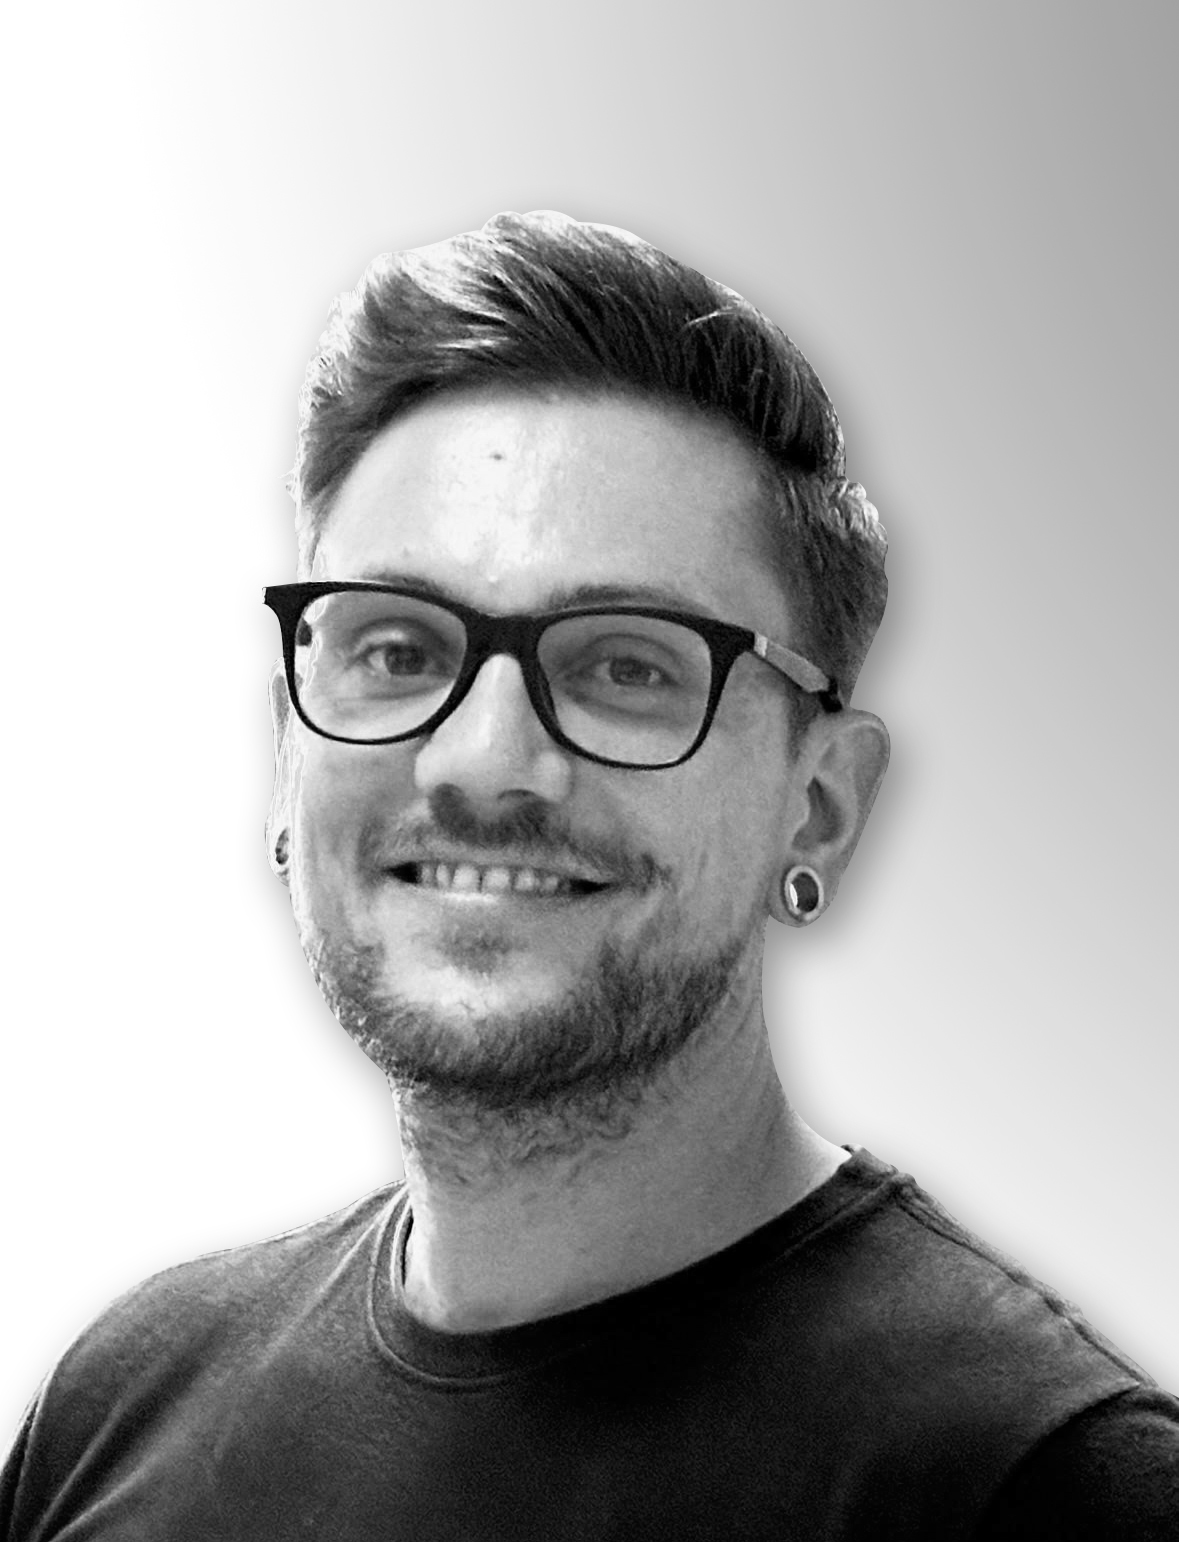
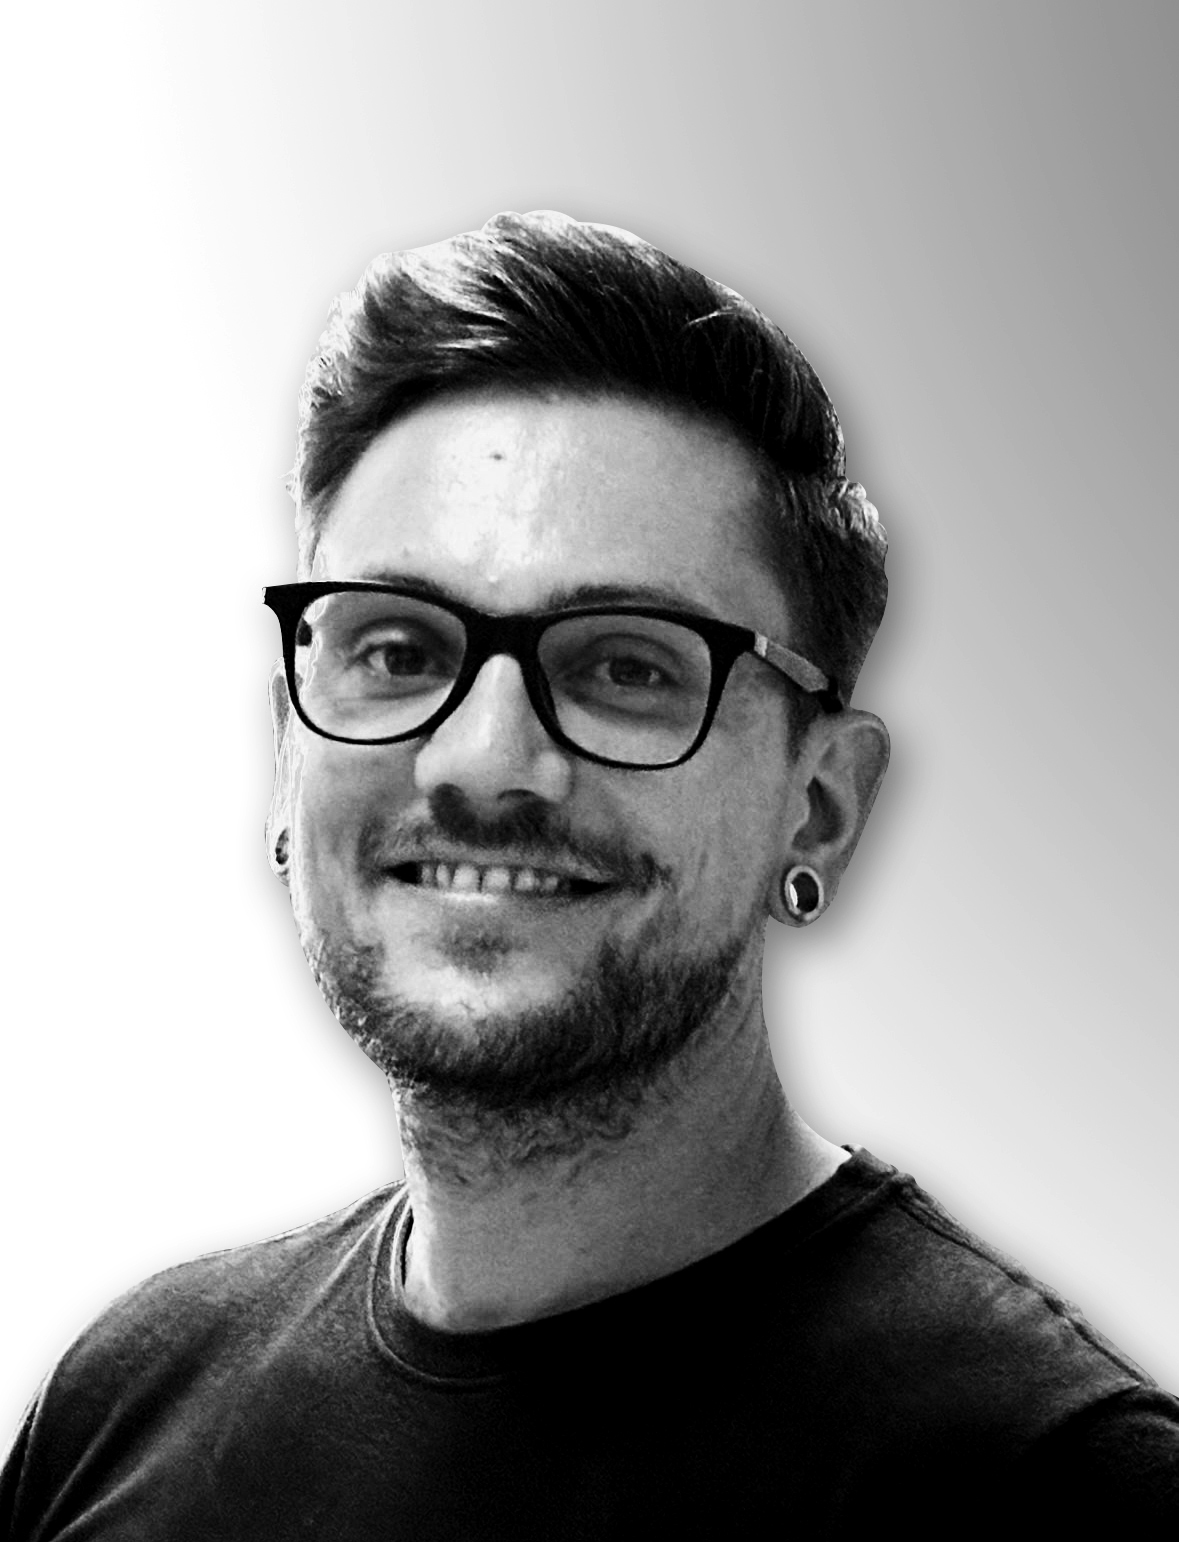
Mudança de foto

diff --git a/index.html b/index.html
@@ -117,16 +117,16 @@
         <div class="justify-content-center member">
             <div class="col-md-4 mb-4">
                 <div class="foto">
-                    <img src="assets/luiz_foto.jpg" class="img-fluid rounded-circle" width="180">
+                    <img src="assets/luiz_foto2.jpg" class="img-fluid rounded-circle" width="180">
                     <h2 style="margin-bottom: 0;" class="mt-3">Luiz R. Bortolotti Jr.</h2>
-                    <p style="margin-top: 0;" class="fs-2">Co-CTO</p>
+                    <p style="margin-top: 0;" class="fs-2">Co-CEO | Co-CTO</p>
                 </div>
             </div>
             <div class="col-md-4 mb-4">
                 <div class="foto">
                     <img src="assets/Yuri 3 copiar 2.jpg" class="img-fluid rounded-circle" width="180">
                     <h2 style="margin-bottom: 0;" class="mt-3">Yuri Germuts</h2>
-                    <p style="margin-top: 0;" class="fs-2">Co-CTO</p>
+                    <p style="margin-top: 0;" class="fs-2">Co-CEO | Co-CTO</p>
                 </div>
             </div>
         </div>
